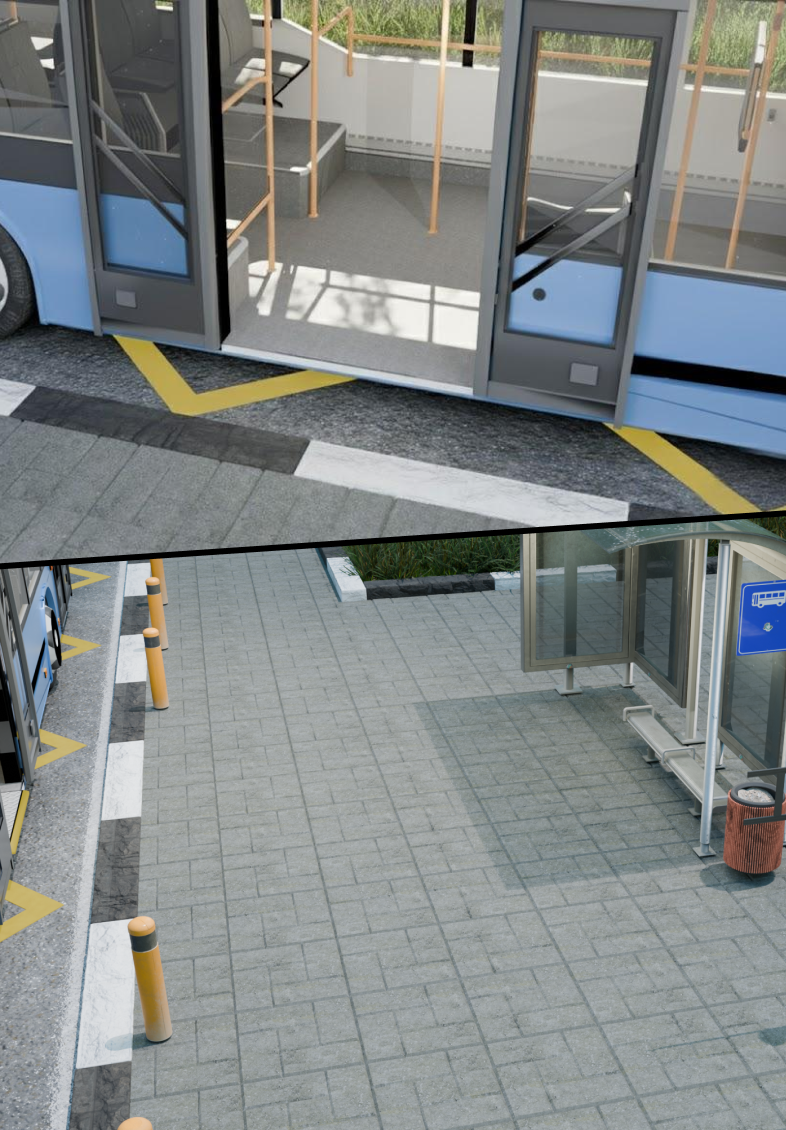
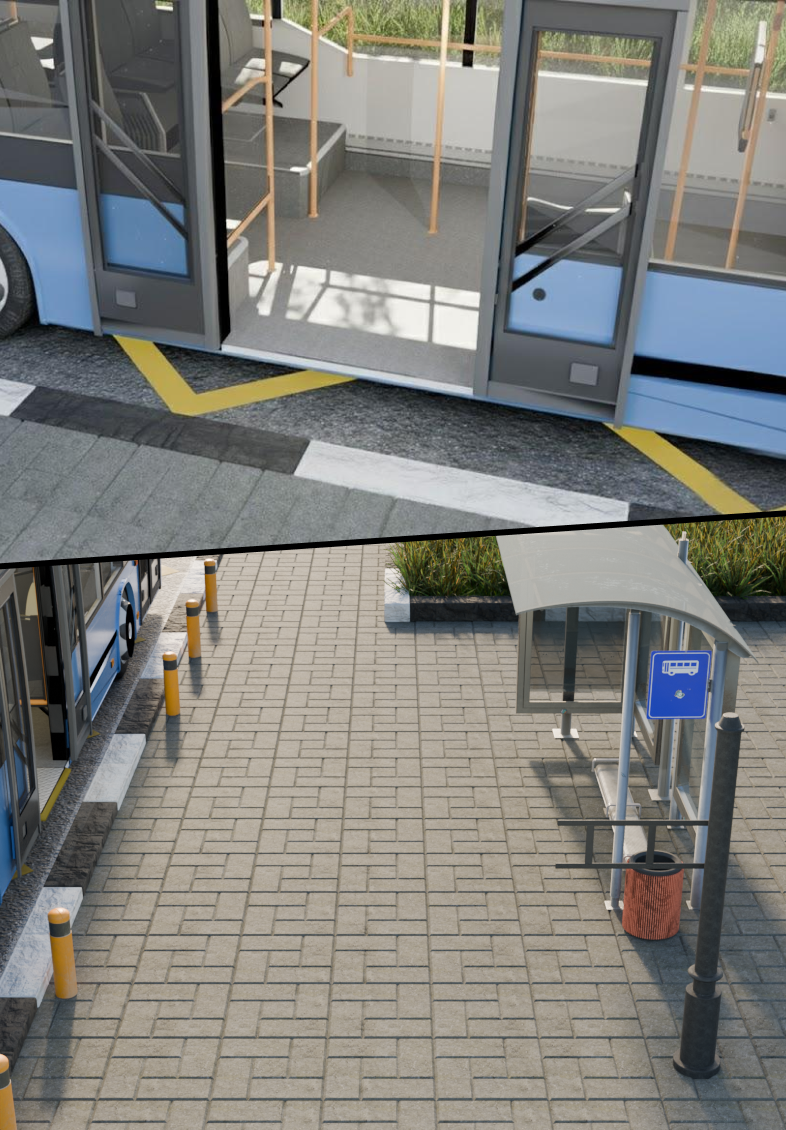
feat: integrate api, add new locations, implement image preloading

diff --git a/src/components/scene/index.tsx b/src/components/scene/index.tsx
@@ -2,33 +2,50 @@ import { Button, Container, Flex, Typography } from '@maxhub/max-ui'
 import { AnimatePresence, type DragHandler, motion } from 'motion/react'
 import { useEffect, useRef, useState } from 'react'
 
-import type { ChallengeData } from '../shared/lib/types'
+import type {
+  ChallengeResponse,
+  CompleteChallengeRequest,
+  PlacedElementRequest,
+} from '../../shared/lib/types'
 
-import { useViewport } from '../shared/lib/hooks'
-import { layoutElements, type PositionedElement } from '../shared/lib/layout'
-import { Tooltip } from '../shared/ui'
+import { backendUrl } from '../../shared/config'
+import { layoutElements, type PositionedElement } from '../../shared/lib/layout'
+import { Tooltip } from '../../shared/ui'
+import { getElementImageSource, getSceneImageSource } from './lib'
 
 interface SceneProps {
-  data: ChallengeData
+  data: ChallengeResponse
 }
 
 function Scene({ data }: SceneProps) {
   const sceneRef = useRef<HTMLDivElement>(null)
   const paletteRef = useRef<HTMLDivElement>(null)
 
+  const [sceneScale, setSceneScale] = useState(1)
   const [initialElementPositions, setInitialElementPositions] = useState<
     PositionedElement[]
   >([])
   const [currentDragElement, setCurrentDragElement] = useState<null | string>(
     null,
   )
-  const [placedElements, setPlacedElements] = useState<
-    { id: string; x: number; y: number }[]
-  >([])
+  const [placedElements, setPlacedElements] = useState<PlacedElementRequest[]>(
+    [],
+  )
   const [isPending, setIsPending] = useState(false)
 
-  const viewport = useViewport()
-  const sceneScale = viewport.width / data.scene_width
+  useEffect(() => {
+    function handleResize() {
+      if (paletteRef.current) {
+        setSceneScale(paletteRef.current.offsetWidth / data.scene_width)
+      }
+    }
+    handleResize()
+
+    window.addEventListener('resize', handleResize)
+    return () => {
+      window.removeEventListener('resize', handleResize)
+    }
+  }, [])
 
   useEffect(() => {
     if (paletteRef.current) {
@@ -80,19 +97,26 @@ function Scene({ data }: SceneProps) {
     window.WebApp.HapticFeedback.impactOccurred('light')
   }
 
-  const handleFinishClick = () => {
+  const handleFinishClick = async () => {
     window.WebApp.HapticFeedback.impactOccurred('medium')
-
-    console.log(placedElements)
 
     setIsPending(true)
 
-    // todo: fetch
-    setTimeout(() => {
-      window.WebApp.HapticFeedback.notificationOccurred('success')
-      window.WebApp.disableClosingConfirmation()
-      window.WebApp.close()
-    }, 1000)
+    await fetch(`${backendUrl}/api/challenges/complete`, {
+      body: JSON.stringify({
+        placed_elements: placedElements,
+      } as CompleteChallengeRequest),
+      headers: {
+        'Content-Type': 'application/json',
+        'X-Init-Data': window.WebApp.initData,
+      },
+      method: 'POST',
+    })
+
+    window.WebApp.HapticFeedback.notificationOccurred('success')
+
+    window.WebApp.disableClosingConfirmation()
+    window.WebApp.close()
   }
 
   const isAllElementsPlaced =
@@ -104,7 +128,7 @@ function Scene({ data }: SceneProps) {
         <img
           alt={data.name}
           className="h-full w-full object-cover"
-          src={`images/challenges/${data.id}/scene.png`}
+          src={getSceneImageSource(data.id)}
         />
       </div>
 
@@ -138,7 +162,7 @@ function Scene({ data }: SceneProps) {
               key={element.id}
               onDragEnd={handleDragEnd}
               onDragStart={handleDragStart}
-              src={`images/challenges/${data.id}/elements/${element.id}.png`}
+              src={getElementImageSource(data.id, element.id)}
               style={{
                 left: position?.x,
                 top: position?.y,

diff --git a/src/pages/challenge.tsx b/src/pages/challenge.tsx
@@ -2,38 +2,43 @@ import { Panel, Spinner } from '@maxhub/max-ui'
 import { AnimatePresence, motion } from 'motion/react'
 import { useEffect, useState } from 'react'
 
-import type { ChallengeData } from '../shared/lib/types'
+import type { ChallengeResponse } from '../shared/lib/types'
 
 import { Scene } from '../components/scene'
+import {
+  getElementImageSource,
+  getSceneImageSource,
+} from '../components/scene/lib'
+import { backendUrl } from '../shared/config'
+import { preloadImages } from '../shared/lib/preload'
 
 function ChallengePage() {
-  const [data, setData] = useState<ChallengeData | null>(null)
+  const [data, setData] = useState<ChallengeResponse | null>(null)
 
   useEffect(() => {
-    // todo: fetch data and preload images
-
-    setTimeout(() => {
-      setData({
-        elements: [
-          { id: 'ramp', name: 'Пандус', width: 282.04 },
-          {
-            id: 'tactile-tiles',
-            name: 'Тактильные плитки',
-            width: 367.46,
-          },
-          {
-            id: 'schedule',
-            name: 'Расписание',
-            width: 182.04,
-          },
-        ],
-        id: 'transport',
-        name: 'Транспортная доступность',
-        scene_width: 786,
+    async function fetchData() {
+      const response = await fetch(`${backendUrl}/api/challenges`, {
+        headers: {
+          'X-Init-Data': window.WebApp.initData,
+        },
       })
+      const json = (await response.json()) as ChallengeResponse
+
+      const images = [
+        getSceneImageSource(json.id),
+        ...json.elements.map((element) =>
+          getElementImageSource(json.id, element.id),
+        ),
+      ]
+
+      await preloadImages(images)
+
+      setData(json)
 
       window.WebApp.HapticFeedback.impactOccurred('light', false)
-    }, 2000)
+    }
+
+    fetchData()
   }, [])
 
   return (

diff --git a/src/shared/lib/types.ts b/src/shared/lib/types.ts
@@ -1,6 +1,22 @@
-export interface ChallengeData {
-  elements: { id: string; name: string; width: number }[]
+export interface ChallengeElementResponse {
+  id: string
+  name: string
+  width: number
+}
+
+export interface ChallengeResponse {
+  elements: ChallengeElementResponse[]
   id: string
   name: string
   scene_width: number
+}
+
+export interface CompleteChallengeRequest {
+  placed_elements: PlacedElementRequest[]
+}
+
+export interface PlacedElementRequest {
+  id: string
+  x: number
+  y: number
 }

diff --git a/src/shared/lib/preload.ts b/src/shared/lib/preload.ts
@@ -1,0 +1,17 @@
+export function preloadImages(images: string[]): Promise<HTMLImageElement[]> {
+  const promises = images.map(
+    (image) =>
+      new Promise<HTMLImageElement>((resolve, reject) => {
+        const img = new Image()
+        img.src = image
+        img.onload = () => {
+          resolve(img)
+        }
+        img.onerror = () => {
+          reject()
+        }
+      }),
+  )
+
+  return Promise.all(promises)
+}

diff --git a/src/components/scene/lib.ts b/src/components/scene/lib.ts
@@ -1,0 +1,7 @@
+export function getElementImageSource(challengeId: string, elementId: string) {
+  return `images/challenges/${challengeId}/elements/${elementId}.png`
+}
+
+export function getSceneImageSource(challengeId: string) {
+  return `images/challenges/${challengeId}/scene.png`
+}

diff --git a/src/webapp.d.ts b/src/webapp.d.ts
@@ -13,6 +13,7 @@ interface WebApp {
     ) => void
     selectionChanged: () => void
   }
+  initData: string
   ready: () => void
 }
 

diff --git a/src/shared/config.ts b/src/shared/config.ts
@@ -1,0 +1,1 @@
+export const backendUrl = 'https://max-hackaton-be.peaceinwealth.ru/'
